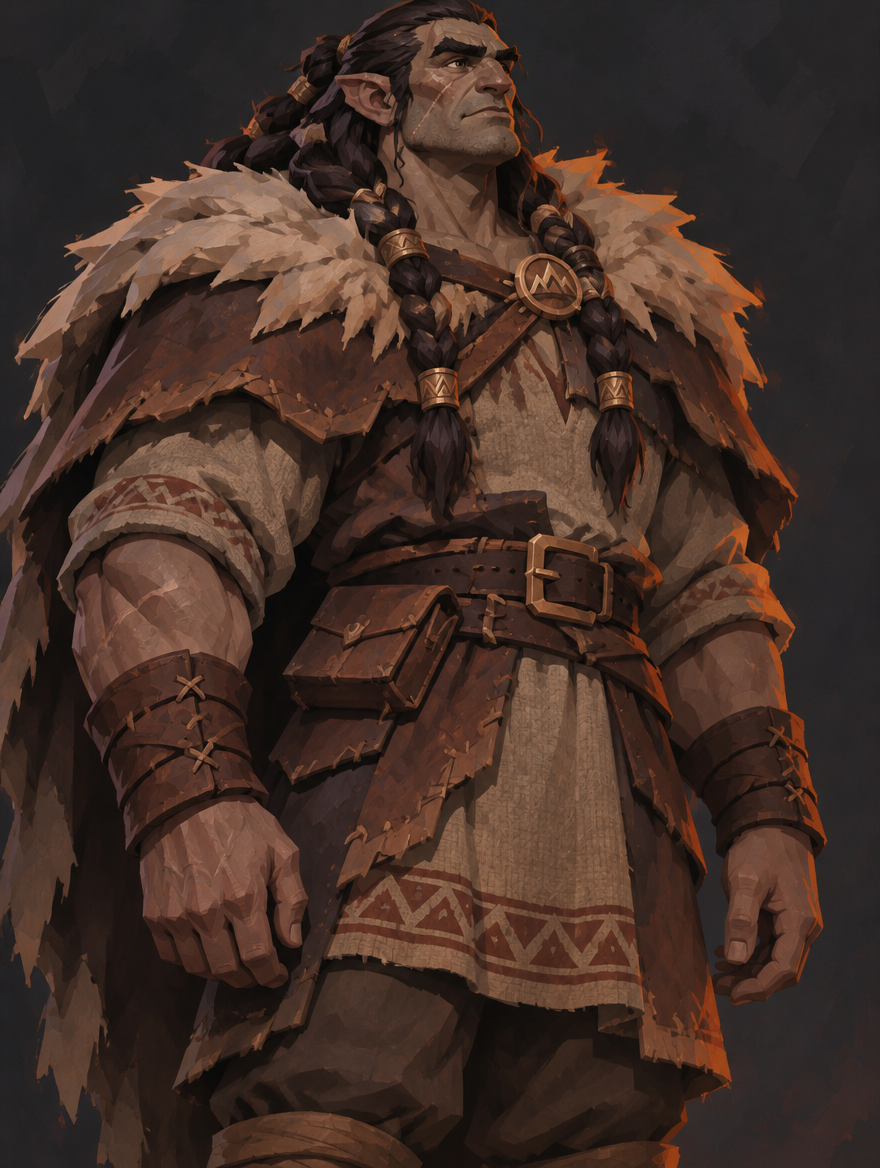
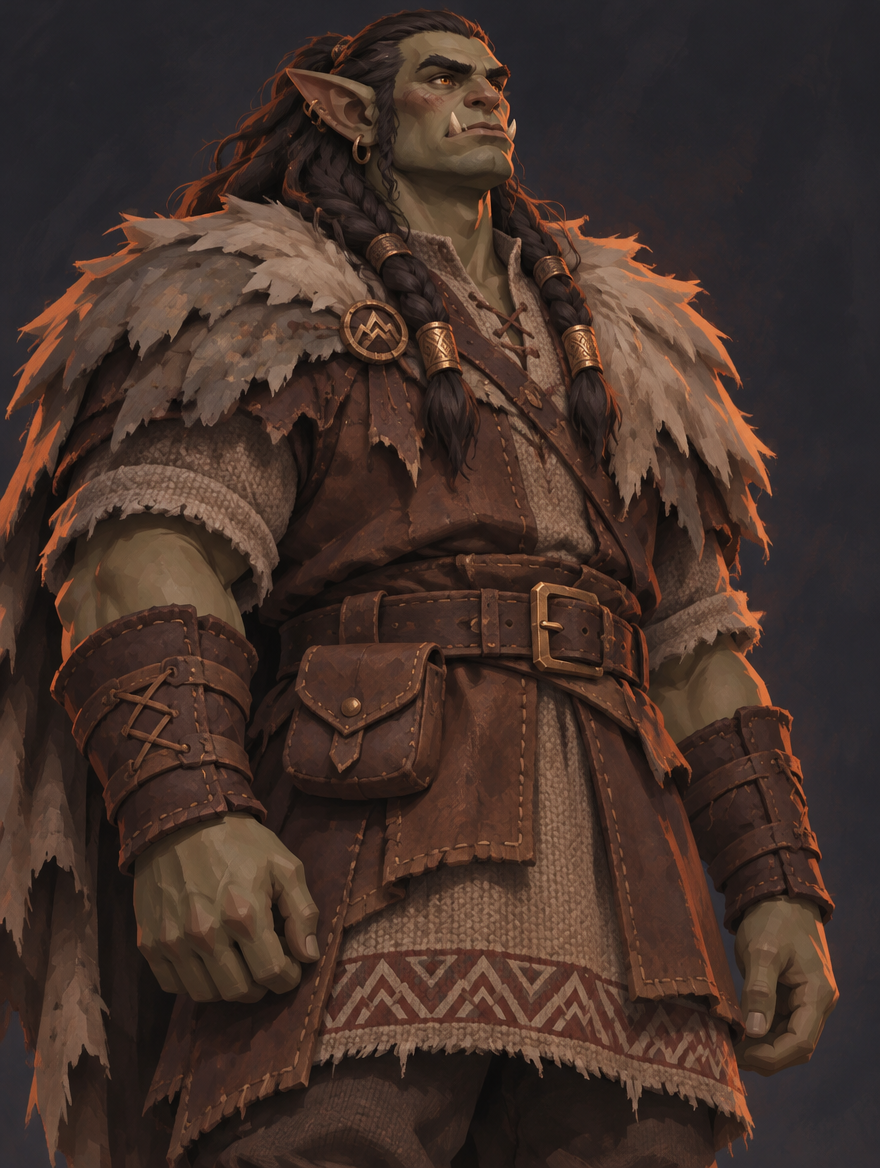
Kargan becomes orc-like: new portrait and lore description

diff --git a/docs/LORE.md b/docs/LORE.md
@@ -29,7 +29,7 @@ Güney ovalarının halkı. Beyaz taştan kaleler, sulanan tarlalar, yazılı ya
 
 ### Kargan Boyları (dağ halkı)
 
-Kuzey Dağları'nın içine oyulmuş ocak-kentlerde yaşayan iri yapılı, gri-toprak tenli, sivri kulaklı bir halk. Krala değil, **ocak**larına bağlıdırlar: her boyun kendi ocağı, her ocağın bir **Közbaşı**'sı vardır. Taşı ve demiri kimse onlar kadar iyi işleyemez. Karganlar için en büyük şeref, **boyunun ocağını söndürmeden yeni kuşağa devretmektir**; sözleri yazılmaz, taşa kazınır.
+Kuzey Dağları'nın içine oyulmuş ocak-kentlerde yaşayan ork soylu bir halk: iri ve geniş omuzlu, gri-yeşil tenli, sivri kulaklı, alt çenelerinden iki kısa kalın diş çıkar. Dişlerine taktıkları demir halkalar boylarını ve zanaatlarını gösterir. Krala değil, **ocak**larına bağlıdırlar: her boyun kendi ocağı, her ocağın bir **Közbaşı**'sı vardır. Taşı ve demiri kimse onlar kadar iyi işleyemez. Karganlar için en büyük şeref, **boyunun ocağını söndürmeden yeni kuşağa devretmektir**; sözleri yazılmaz, taşa kazınır.
 
 - Güçlü yanları: dayanıklılık, zanaat, dağ savaşı, boy içi sadakat.
 - Zayıf yanları: boylar arası rekabet; yabancıya geç güvenirler.
